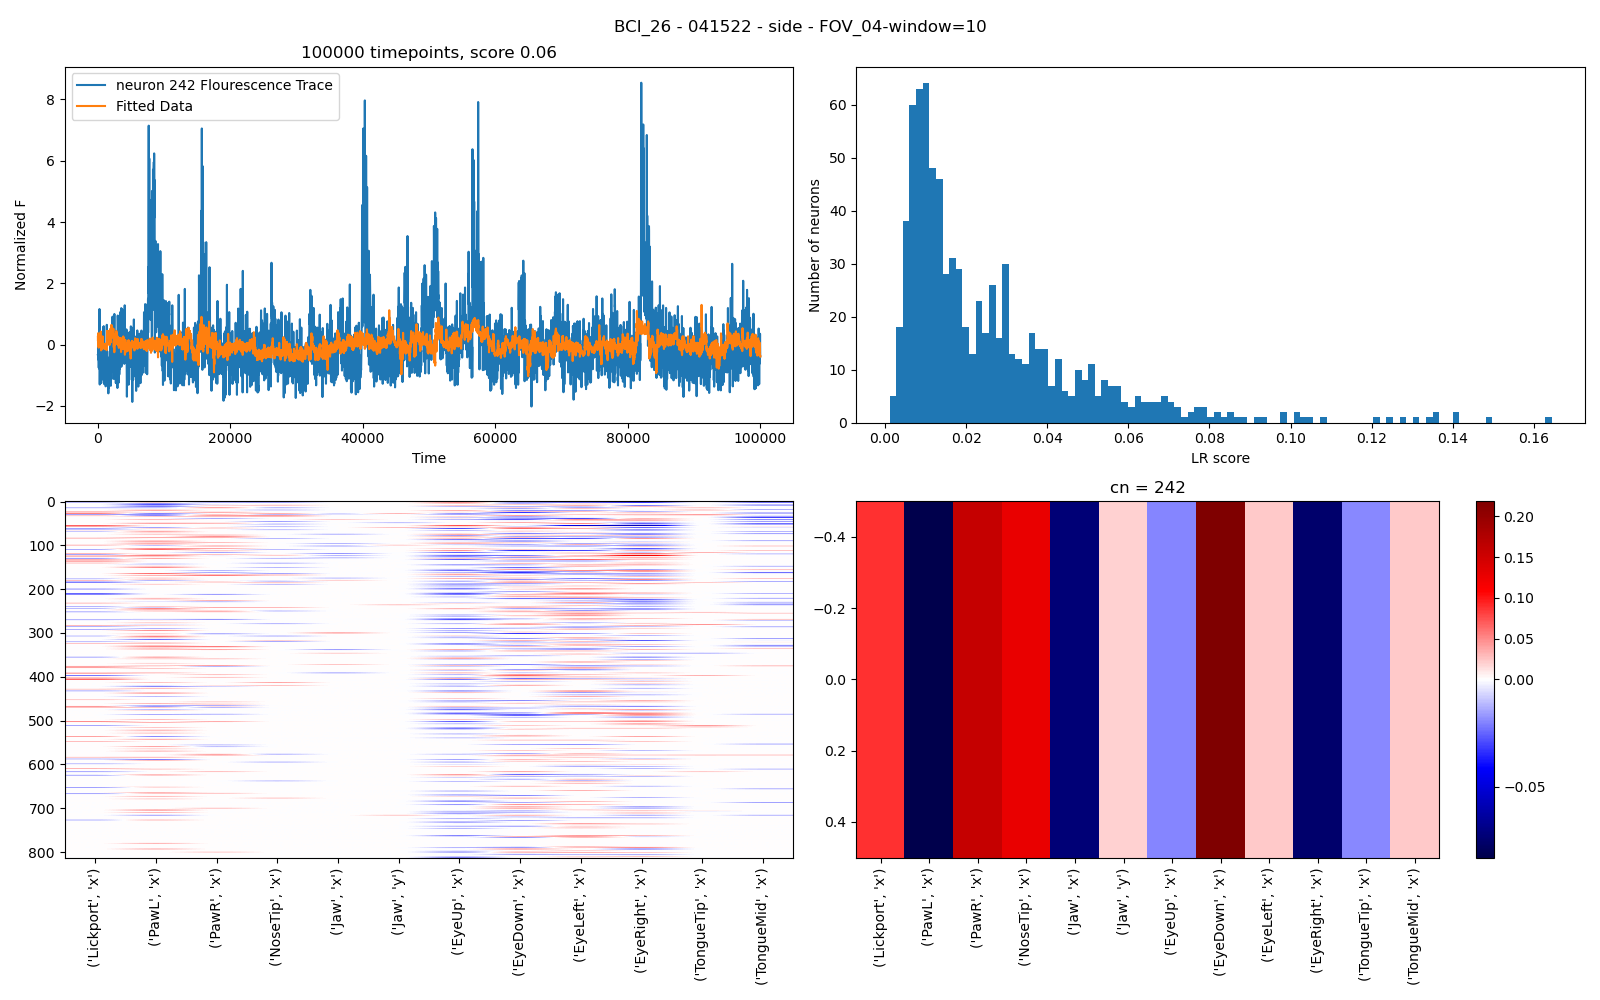
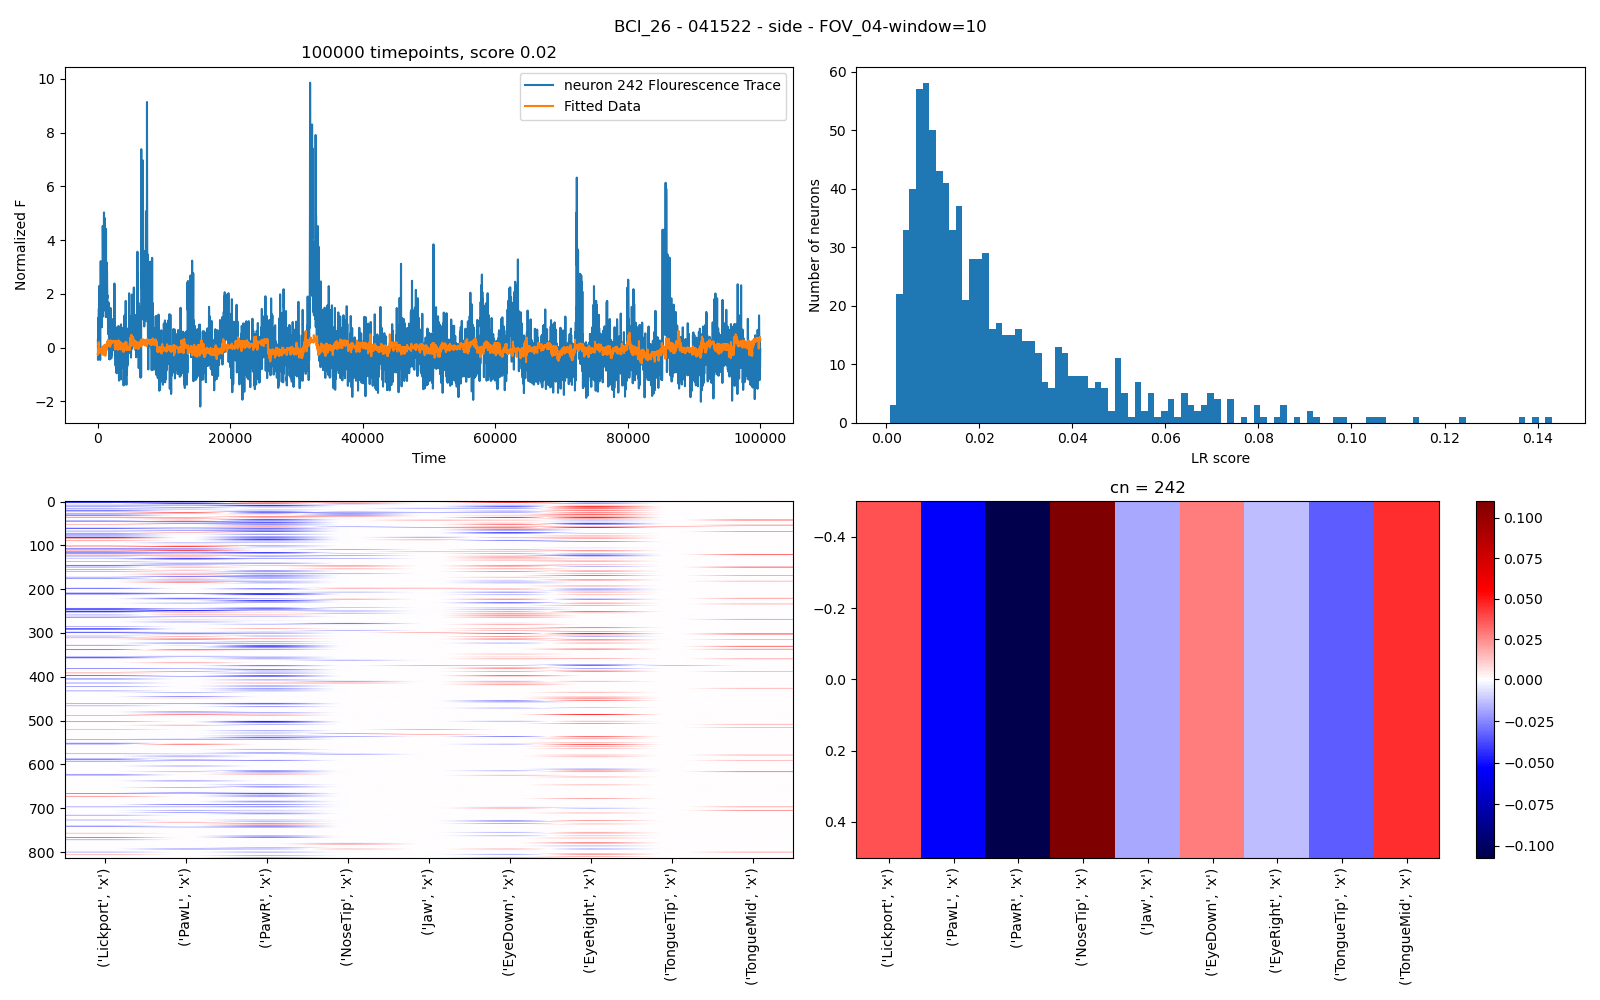
latest updates, mostly plots

diff --git a/BCI_analysis/plot/plot_behavior.py b/BCI_analysis/plot/plot_behavior.py
@@ -42,6 +42,14 @@ def pc_dataframe(DLC_aligned: pd.DataFrame, drop_pole=False) -> pd.DataFrame:
             dlc_cpy.drop((bp, 'x'), axis=1, inplace=True)
             dlc_cpy.drop((bp, 'y'), axis=1, inplace=True)
             continue
+        if bp == 'EyeUp' and drop_pole == True:
+            dlc_cpy.drop((bp, 'x'), axis=1, inplace=True)
+            dlc_cpy.drop((bp, 'y'), axis=1, inplace=True)
+            continue
+        if bp == 'EyeLeft' and drop_pole == True:
+            dlc_cpy.drop((bp, 'x'), axis=1, inplace=True)
+            dlc_cpy.drop((bp, 'y'), axis=1, inplace=True)
+            continue
         pca = PCA(n_components=2)
         X_t = pca.fit_transform(dlc_cpy[bp].values)
         print(f"{bp}: {pca.explained_variance_ratio_}")    
@@ -79,14 +87,14 @@ def normalize_and_window(DLC_aligned, F_aligned, start, end, window, save=False)
 
     print(f"Normalize DLC data and apply a sliding window of {window}")
     for i in tqdm(range(0, dlc_cpy.shape[1])):
-        temp = normalize.fit_transform(dlc_cpy.values[start:end, i].reshape(-1, 1))
+        temp = normalize.fit_transform(dlc_cpy.values[:, i].reshape(-1, 1))
         DLC_aligned_n[:, i] = rollingfun(temp, window=window).flatten()
 
 
     return dlc_cpy, DLC_aligned_n, F_aligned_n
 
 
-def apply_lr_plot(DLC_aligned, F_aligned, ca_data, start=0, end=100000, window=200):
+def apply_lr_plot(DLC_aligned, F_aligned, ca_data, start=50000, end=150000, window=200):
 
     dlc_cpy, DLC_aligned_n, F_aligned_n = normalize_and_window(DLC_aligned, F_aligned, start, end, window)
 #%%
@@ -125,9 +133,12 @@ def apply_lr_plot(DLC_aligned, F_aligned, ca_data, start=0, end=100000, window=2
 
 # %%
 
-def sliding_fit(DLC_aligned, F_aligned, start=0, end=100000, window=100, slide=[0]):
+def sliding_fit(DLC_aligned, F_aligned, normalize=True, start=0, end=100000, window=100, slide=[0]):
 
-    _, DLC_aligned_n, F_aligned_n = normalize_and_window(DLC_aligned, F_aligned, start, end, window)
+    if normalize:
+        _, DLC_aligned_n, F_aligned_n = normalize_and_window(DLC_aligned, F_aligned, start, end, window)
+    else:
+        DLC_aligned_n, F_aligned_n = DLC_aligned, F_aligned
 
     cn = ca_data['cn'][0]
     _, ax = plt.subplots(len(slide), 2, figsize=(16,10))
@@ -148,8 +159,8 @@ def sliding_fit(DLC_aligned, F_aligned, start=0, end=100000, window=100, slide=[
         scores, beta_vals, intercept = linear_regression(F_, DLC_aligned_n)
         scores = np.asarray(scores)
 # %%
-        ax[i,0].plot(F_[cn, 0:10000], label=f'neuron {cn} Flourescence Trace')
-        ax[i,0].plot(((beta_vals[cn]@DLC_aligned_n.T) + intercept[cn])[0:10000], label='Fitted Data')
+        ax[i,0].plot(F_[cn, :], label=f'neuron {cn} Flourescence Trace')
+        ax[i,0].plot(((beta_vals[cn]@DLC_aligned_n.T) + intercept[cn]), label='Fitted Data')
         ax[i,0].set_title(f'slide = {k}')
         ax[i,0].set_xlabel("Time")
         ax[i,0].set_ylabel("Normalized F")
@@ -163,7 +174,7 @@ def sliding_fit(DLC_aligned, F_aligned, start=0, end=100000, window=100, slide=[
     save_path = os.path.join(plt_save_path, f"{mouse}-{session}-{camera}-{FOV}-window={window}-slide={slide}")
     plt.tight_layout()
     plt.savefig(save_path)
-    plt.show(block=False)
+    # plt.show(block=False)
 
 # # for window in [1, 10, 100, 200, 400, 1000]:
 # #     apply_lr_plot(DLC_aligned, F_aligned, ca_data, window=window)
@@ -175,11 +186,12 @@ if __name__ == "__main__":
     parser = argparse.ArgumentParser()
     parser.add_argument('--path', type=str, default=None) 
     parser.add_argument('--save', type=str, default=None) 
+    parser.add_argument('--apply_lr', type=bool, default=False)
     args = parser.parse_args()
     
     print(args.path)
     if args.path:
-        a = np.load(args.path)
+        a = np.load(args.path, allow_pickle=True)
         ca_data = np.load(os.path.join(sessionwise_data_path, mouse, "-".join([mouse, session, FOV])+".npy"), allow_pickle=True).tolist()
 
         DLC_aligned_n = a['DLC_aligned_n']
@@ -189,8 +201,19 @@ if __name__ == "__main__":
         beta_vals = a['beta_vals']
         intercept = a['intercept']
         cn = ca_data['cn'][0]
+        dlc_headers = a['dlc_headers']
 
-        print(scores)
+        sliding_fit(DLC_aligned_n, F_aligned_n, normalize=False, window=200, slide=[-2000, -1000, 0, 1000, 2000])
+        good_neuron = cn
+        fig, ax = plt.subplots(len(dlc_headers)+1, 1, figsize=(16,12), sharex=True)
+
+        ax[0].plot(F_aligned_n[good_neuron, :])
+        for i, bp in enumerate(np.argsort(np.abs(beta_vals[good_neuron]))[::-1]):
+            ax[i+1].plot(dlc_cpy[:, bp], label=f"beta_val = {beta_vals[good_neuron, bp]:0.3f}")
+            ax[i+1].set_ylabel(f"{dlc_headers[bp]}", rotation='horizontal', ha='right')
+            ax[i+1].legend()
+        plt.show()
+
 
     if args.save:
         mouse = "BCI_26"
@@ -202,7 +225,7 @@ if __name__ == "__main__":
         ca_data = np.load(os.path.join(sessionwise_data_path, mouse, "-".join([mouse, session, FOV])+".npy"), allow_pickle=True).tolist()
         start = 0
         end = DLC_aligned.shape[0]
-        window = 100
+        window = 200
 
         dlc_cpy, DLC_aligned_n, F_aligned_n = normalize_and_window(DLC_aligned, F_aligned, start, end, window)
         scores, beta_vals, intercept = linear_regression(F_aligned_n, DLC_aligned_n)
@@ -210,5 +233,21 @@ if __name__ == "__main__":
         t = time.localtime()
         current_time = time.strftime("%H%M%S", t)
         os.makedirs(os.path.join(plt_save_path, "use_data", mouse), exist_ok=True)
-        save_path = os.path.join(plt_save_path, "use_data", mouse, f"window{window}-{end}-"+current_time)
-        np.savez(save_path, DLC_aligned_n=DLC_aligned_n, F_aligned_n=F_aligned_n, dlc_cpy=dlc_cpy, scores=scores, beta_vals=beta_vals, intercept=intercept)
+        save_path = os.path.join(plt_save_path, "use_data", mouse, f"{session}-window{window}-{end}")
+        np.savez(save_path, DLC_aligned_n=DLC_aligned_n, F_aligned_n=F_aligned_n, dlc_cpy=dlc_cpy, dlc_headers=np.asarray(dlc_cpy.columns.values), trial_lengths=trial_lengths, scores=scores, beta_vals=beta_vals, intercept=intercept)
+
+    if args.apply_lr:
+
+        mouse = "BCI_26"
+        FOV = "FOV_04"
+        camera = "side"
+        session = "041522"
+        F_aligned, DLC_aligned, trial_lengths = get_aligned_data(suite2p_path, dlc_base_dir, bpod_path,
+                                        sessionwise_data_path, mouse, FOV, camera, session)
+        ca_data = np.load(os.path.join(sessionwise_data_path, mouse, "-".join([mouse, session, FOV])+".npy"), allow_pickle=True).tolist()
+        start = 0
+        end = DLC_aligned.shape[0]
+        window = 100
+
+        for window in [1, 10, 100, 200, 400, 1000]:
+            apply_lr_plot(DLC_aligned, F_aligned, ca_data, window=window)
